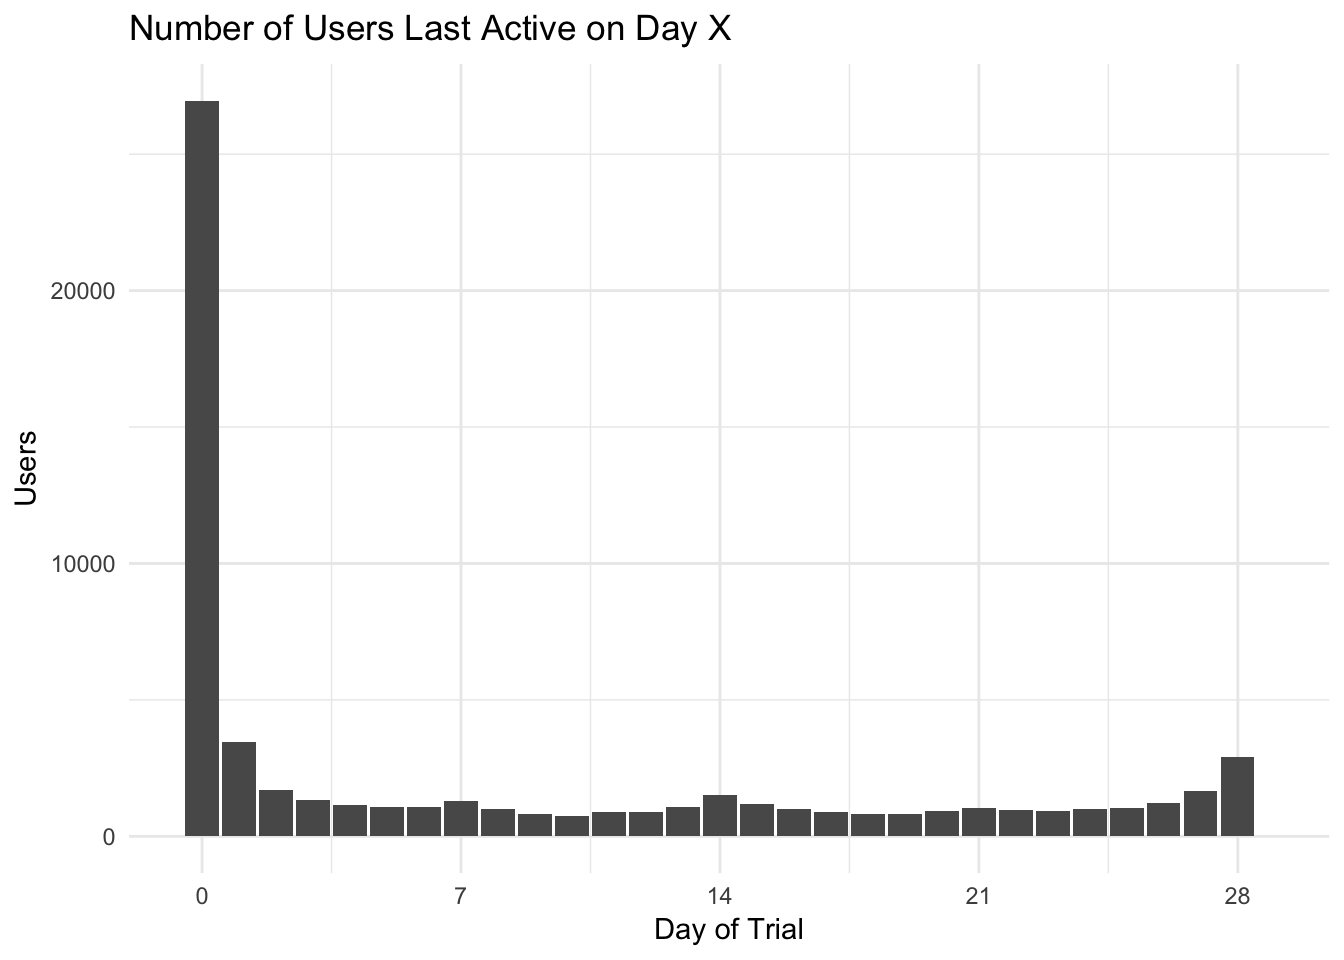
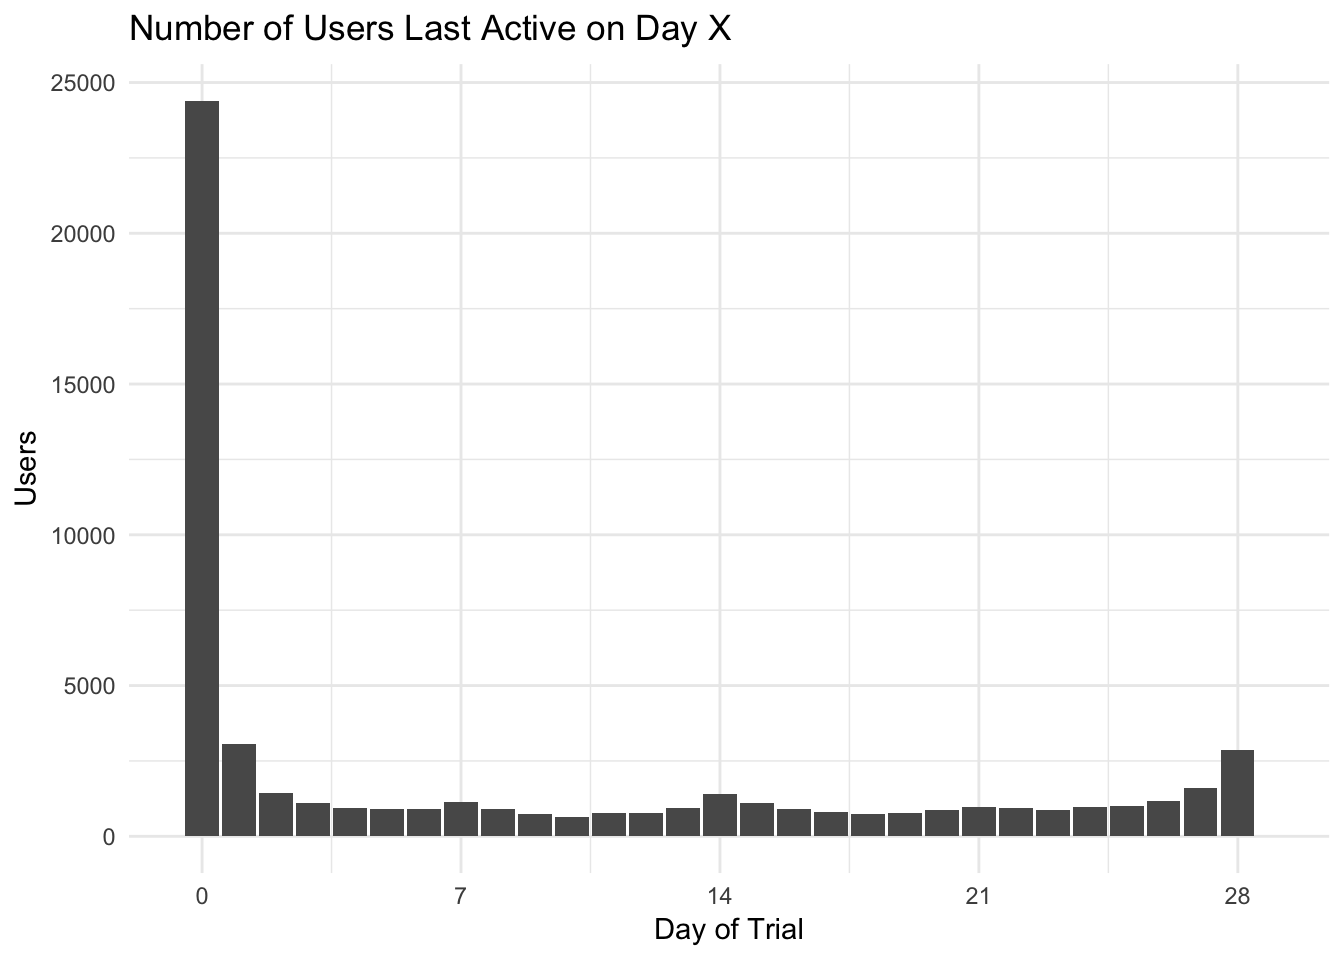
Updated trial activity analysis

diff --git a/content/blog/trial-activity.html b/content/blog/trial-activity.html
@@ -28,7 +28,11 @@ trials$activity_date &lt;- as.Date(trials$activity_date, format = &#39;%Y-%m-%d&
 # Calculate trial length
 trials &lt;- trials %&gt;%
   mutate(trial_length = as.numeric(end_date - start_date),
-         trial_day = trial_day - 1)</code></pre>
+         trial_day = trial_day - 1)
+
+# Filter out trials that started in the last month
+trials &lt;- trials %&gt;%
+  filter(start_date &lt; as.Date(&#39;2017-06-24&#39;))</code></pre>
 <p>Now that the data is clean, we want to calculate the latest date, after the trial began, that the user was active.</p>
 <pre class="r"><code># Group by user
 by_user &lt;- trials %&gt;%
